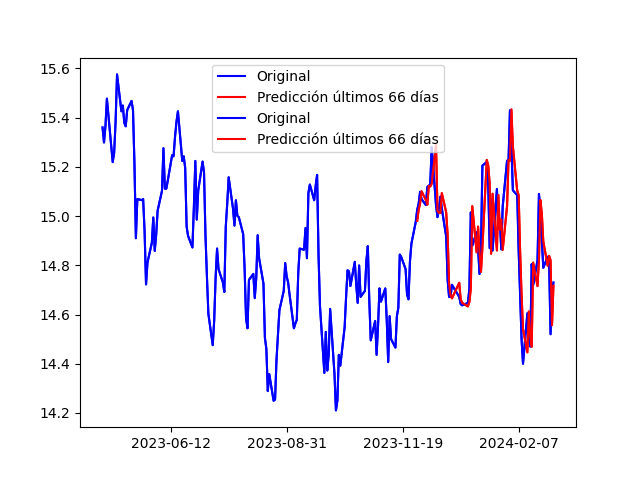
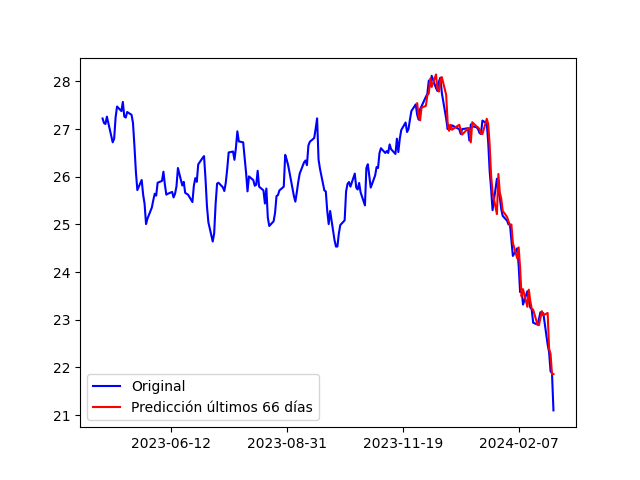
Pruebas forecast ARIMA automatizado

diff --git a/Analysis/templates/base.html b/Analysis/templates/base.html
@@ -61,10 +61,14 @@
                 {% else %}
                 <!-- Sólo lo muestro si el usuario está sin registrar -->
                 <li class="nav-item">
-                    <a class="nav-link" href="/login">Login</a>
+                    <a class="nav-link" href="/login">
+                        <img src="{% static 'icons/login.svg' %}" alt="ExperimentIcon" width="20" height="20"> Login 
+                    </a>
                 </li>
                 <li class="nav-item">
-                    <a class="nav-link" href="/signup">Registro</a>
+                    <a class="nav-link" href="/signup">
+                        <img src="{% static 'icons/signup.svg' %}" alt="ExperimentIcon" width="20" height="20"> Registro 
+                    </a>
                 </li>
                 {% endif %}
             </ul>
@@ -76,8 +80,8 @@
     <main>
         <br>
         <div style="text-align: center;">
-            <a href="/mapa/ibex35"><button class="btn" style="background-color: #212428; color: #FFFEFE; font-size: 16px; font-family: 'Arial', sans-serif; box-shadow: 0px 3px 5px rgba(0, 0, 0, 0.2); width: 120px;">IBEX35</button></a>
             <a href="/mapa/dj30"><button class="btn" style="background-color: #212428; color: #FFFEFE; font-size: 16px; font-family: 'Arial', sans-serif; box-shadow: 0px 3px 5px rgba(0, 0, 0, 0.2); width: 120px;">DJ30</button></a>
+            <a href="/mapa/ibex35"><button class="btn" style="background-color: #212428; color: #FFFEFE; font-size: 16px; font-family: 'Arial', sans-serif; box-shadow: 0px 3px 5px rgba(0, 0, 0, 0.2); width: 120px;">IBEX35</button></a>
             <a href="/mapa/ftse100"><button class="btn" style="background-color: #212428; color: #FFFEFE; font-size: 16px; font-family: 'Arial', sans-serif; box-shadow: 0px 3px 5px rgba(0, 0, 0, 0.2); width: 120px;">FTSE100</button></a>
             <a href="/mapa/dax40"><button class="btn" style="background-color: #212428; color: #FFFEFE; font-size: 16px; font-family: 'Arial', sans-serif; box-shadow: 0px 3px 5px rgba(0, 0, 0, 0.2); width: 120px;">DAX40</button></a>
             <!-- <a href="/mapa"><button>Mapa stocks</button></a> -->

diff --git a/Analysis/views.py b/Analysis/views.py
@@ -41,12 +41,9 @@ from News.views import _generar_figura
 from util.rss.RSS import rss_dj30, rss_ibex35, rss_ftse100, rss_dax40
 # Para obtener los tickers y los paths de las BDs
 from util.tickers.Tickers_BDs import tickers_adaptados_dj30, tickers_adaptados_ibex35, tickers_adaptados_ftse100, tickers_adaptados_dax40, tickers_adaptados_indices, bases_datos_disponibles, tickers_adaptados_disponibles, obtener_nombre_bd, tickers_disponibles
-from datetime import timedelta
 
-from sklearn.metrics import mean_squared_error
-from math import sqrt
-import matplotlib.pyplot as plt
-from statsmodels.tsa.arima.model import ARIMA
+from Analysis.lab import forecast_con_arima
+
 
 def signup(request):
     """Para registrar a un usuario.
@@ -863,147 +860,74 @@ def _calcular_media_sector(lista_dataframes):
     return dfs_merged
 
 
-def _pruebas_ARIMA_pronostico_estatico(ticker):
+# def _pruebas_ARIMA_pronostico_estatico(ticker):
 
-    bd = obtener_nombre_bd(ticker)
-    model = apps.get_model('Analysis', ticker)
-    # Último año aprox.
-    entrada = model.objects.using(bd).order_by('-date')[:220]
-    df = pd.DataFrame(list(entrada.values()))
+#     bd = obtener_nombre_bd(ticker)
+#     model = apps.get_model('Analysis', ticker)
+#     # Último año aprox.
+#     entrada = model.objects.using(bd).order_by('-date')[:220]
+#     df = pd.DataFrame(list(entrada.values()))
     
-    df.sort_values(by='date', ascending=True, inplace=True, ignore_index=True)
+#     df.sort_values(by='date', ascending=True, inplace=True, ignore_index=True)
 
-    datos = df['close']
-    fechas = df['date']
-    # Para trabajar con modelos de statsmodels hay que indicar una 
-    # frecuencia en índices temporales. Aquí no se puede usar porque
-    # las fechas de las cotizaciones no tienen una frecuencia diaria
-    # ya que hay festivos y/o fines de semana. Por tanto, el índice
-    # será un entero y se hacen luego las adaptaciones oportunas. 
-    # datos.set_index('date', inplace=True)
+#     datos = df['close']
+#     fechas = df['date']
+#     # Para trabajar con modelos de statsmodels hay que indicar una 
+#     # frecuencia en índices temporales. Aquí no se puede usar porque
+#     # las fechas de las cotizaciones no tienen una frecuencia diaria
+#     # ya que hay festivos y/o fines de semana. Por tanto, el índice
+#     # será un entero y se hacen luego las adaptaciones oportunas. 
+#     # datos.set_index('date', inplace=True)
 
-    tam_entrenamiento = int(len(datos) * 0.7)
-    datos_entrenamiento, datos_test = datos[:tam_entrenamiento], datos[tam_entrenamiento:]
+#     tam_entrenamiento = int(len(datos) * 0.7)
+#     datos_entrenamiento, datos_test = datos[:tam_entrenamiento], datos[tam_entrenamiento:]
 
-    # Fitting ARIMA model with order (p, d, q) = (1, 1, 1)
-    modelo = ARIMA(datos_entrenamiento, order=(5, 1, 1))
-    modelo_fit = modelo.fit()
+#     # Fitting ARIMA model with order (p, d, q) = (1, 1, 1)
+#     modelo = ARIMA(datos_entrenamiento, order=(5, 1, 1))
+#     modelo_fit = modelo.fit()
 
-    # Resumen del modelo ajustado:
-    # print(modelo_fit.summary())
+#     # Resumen del modelo ajustado:
+#     # print(modelo_fit.summary())
 
-    # Predict the next 3 values
-    forecast_steps = 5
-    prediccion = modelo_fit.forecast(steps=forecast_steps)
+#     # Predict the next 3 values
+#     forecast_steps = 5
+#     prediccion = modelo_fit.forecast(steps=forecast_steps)
 
-    datos.index = fechas
-    prediccion.index = fechas[tam_entrenamiento:(tam_entrenamiento+forecast_steps)]
+#     datos.index = fechas
+#     prediccion.index = fechas[tam_entrenamiento:(tam_entrenamiento+forecast_steps)]
 
-    # Print or visualize the predicted values
-    print("Predicted Values:", prediccion)
+#     # Print or visualize the predicted values
+#     print("Predicted Values:", prediccion)
 
-    # Visualize original data and predicted values
-    plt.plot(datos.index, datos, label='Original Data')
-    plt.plot(prediccion.index, prediccion, label='Predictions', color='red')
+#     # Visualize original data and predicted values
+#     plt.plot(datos.index, datos, label='Original Data')
+#     plt.plot(prediccion.index, prediccion, label='Predictions', color='red')
         
-    plt.gca().xaxis.set_major_locator(plt.MaxNLocator(5))  # Adjust the maximum number of ticks displayed
+#     plt.gca().xaxis.set_major_locator(plt.MaxNLocator(5))  # Adjust the maximum number of ticks displayed
 
-    plt.legend()
-    plt.savefig('prediccion.png', format="PNG")
+#     plt.legend()
+#     plt.savefig('prediccion.png', format="PNG")
     
-    """
-    residuals = pd.DataFrame(modelo_fit.resid)
-    residuals.plot()
-    plt.savefig('linea_residuos.png', format="PNG")
-    # density plot of residuals
-    residuals.plot(kind='kde')
-    plt.savefig('densidad_residuos.png', format="PNG")
-    # summary stats of residuals
-    print(residuals.describe())
-    """
+#     """
+#     residuals = pd.DataFrame(modelo_fit.resid)
+#     residuals.plot()
+#     plt.savefig('linea_residuos.png', format="PNG")
+#     # density plot of residuals
+#     residuals.plot(kind='kde')
+#     plt.savefig('densidad_residuos.png', format="PNG")
+#     # summary stats of residuals
+#     print(residuals.describe())
+#     """
 
-    return
+#     return
 
 
 def _pruebas_ARIMA_pronostico_movil(ticker):
 
-    bd = obtener_nombre_bd(ticker)
-    modelo = apps.get_model('Analysis', ticker)
-    # Último año aprox.
-    entrada = modelo.objects.using(bd).order_by('-date')[:220]
-    df = pd.DataFrame(list(entrada.values()))
-    
-    df.sort_values(by='date', ascending=True, inplace=True, ignore_index=True)
+    # Por defecto order=None, i.e., se calcula el 'order' (p,d,q)
+    # automáticamente con auto_arima
+    # forecast_con_arima(ticker, order=None)
 
-    datos = df['close']
-    fechas = df['date']
-
-    tam_entrenamiento = int(len(datos) * 0.7)
-    datos_entrenamiento, datos_test = datos[:tam_entrenamiento], datos[tam_entrenamiento:]
-
-    print(datos_test)
-
-    history = [x for x in datos_entrenamiento]
-    predictions = list()
-    prediccion = 0
-    # walk-forward validation
-    for t in range(len(datos_test)):
-        modelo = ARIMA(history, order=(1, 1, 1))
-        modelo_fit = modelo.fit()
-        output = modelo_fit.forecast()
-        yhat = output[0]
-        predictions.append(yhat)
-        obs = datos_test.iloc[t]
-        history.append(obs)
-        # print(f'predicted={yhat}, expected={obs}')
-    
-    prediccion = modelo_fit.forecast(steps=1)
-    
-    # evaluate forecasts
-    rmse = sqrt(mean_squared_error(datos_test, predictions))
-    print('Test RMSE: %.3f' % rmse)
-    # plot forecasts against actual outcomes
-
-    # datos_test.index = fechas[tam_entrenamiento:]
-    datos.index = fechas
-    predictions = pd.DataFrame(predictions)
-    predictions.index = fechas[tam_entrenamiento:]
-
-    # plt.plot(datos_test.index, datos_test, color='blue', label='Original')
-    plt.plot(datos.index, datos, color='blue', label='Original')
-    plt.plot(predictions.index, predictions, color='red', label=f'Predicción últimos {len(datos_test)} días')
-    plt.gca().xaxis.set_major_locator(plt.MaxNLocator(5))
-    plt.legend()
-    plt.savefig('pruebas.png', format='PNG')
-
-    print("Predicciones: ", prediccion)
-
-    """
-    # Fitting ARIMA model with order (p, d, q) = (1, 1, 1)
-    modelo = ARIMA(datos_entrenamiento, order=(5, 1, 1))
-    modelo_fit = modelo.fit()
-
-    # Resumen del modelo ajustado:
-    # print(modelo_fit.summary())
-
-    # Predict the next 3 values
-    forecast_steps = 5
-    prediccion = modelo_fit.forecast(steps=forecast_steps)
-
-    datos.index = fechas
-    prediccion.index = fechas[tam_entrenamiento:(tam_entrenamiento+forecast_steps)]
-
-    # Print or visualize the predicted values
-    print("Predicted Values:", prediccion)
-
-    # Visualize original data and predicted values
-    plt.plot(datos.index, datos, label='Original Data')
-    plt.plot(prediccion.index, prediccion, label='Predictions', color='red')
-        
-    plt.gca().xaxis.set_major_locator(plt.MaxNLocator(5))  # Adjust the maximum number of ticks displayed
-
-    plt.legend()
-    plt.savefig('prediccion.png', format="PNG")
-    """
+    forecast_con_arima(ticker, order=(0.5,1,1))
 
     return

diff --git a/Analysis/lab.py b/Analysis/lab.py
@@ -1,0 +1,115 @@
+from sklearn.metrics import mean_squared_error
+from math import sqrt
+import matplotlib.pyplot as plt
+from statsmodels.tsa.arima.model import ARIMA
+import pandas as pd
+from django.apps import apps
+from pmdarima.arima import auto_arima
+from util.tickers.Tickers_BDs import obtener_nombre_bd
+
+
+def forecast_con_arima(ticker, order=None):
+    """
+    """
+    bd = obtener_nombre_bd(ticker)
+    modelo = apps.get_model('Analysis', ticker)
+    # Último año aprox.
+    entrada = modelo.objects.using(bd).order_by('-date')[:220]
+    df = pd.DataFrame(list(entrada.values()))
+    
+    df.sort_values(by='date', ascending=True, inplace=True, ignore_index=True)
+
+    # Guardo las fechas para usarlas como índices
+    datos = df['close']
+    fechas = df['date']
+
+    # Split 70/30
+    tam_entrenamiento = int(len(datos) * 0.7)
+    datos_entrenamiento, datos_test = datos[:tam_entrenamiento], datos[tam_entrenamiento:]
+
+    # Separo en history porque lo voy actualizando para los 
+    # subsecuentes análisis
+    history = [x for x in datos_entrenamiento]
+    predictions = list()
+    prediccion = 0
+
+    # Calcular 'order' de forma automática con auto_arima. En otro 
+    # caso, 'order' será lo que hay indicado el usuario. Se calcula
+    # el mejor modelo con auto_arima
+    if order==None:
+        model = auto_arima(datos, seasonal=False)
+        order = model.order
+        # print(model.summary())
+        # print("\nParámetros:", model.order, "\n")
+    else:
+        # Comprobación de que los datos introducidos por 
+        # el usuario son válidos
+        for _ in order:
+            if type(_) != int:
+                print("ERROR")
+
+    # Validación 'walk-forward'
+    for t in range(len(datos_test)):
+        modelo = ARIMA(history, order=order)
+        modelo_fit = modelo.fit()
+        # Por defecto, el forecast es de un step, podría omitirlo
+        output = modelo_fit.forecast(steps=1)
+        yhat = output[0]
+        predictions.append(yhat)
+        obs = datos_test.iloc[t]
+        history.append(obs)
+        # print(f'predicted={yhat}, expected={obs}')
+    
+    # Hago una predicción adicional para el próximo día
+    prediccion = modelo_fit.forecast(steps=1)
+    
+    # Evaluar con RMSE cómo ha sido el forecast
+    print(modelo_fit.summary())
+    rmse = sqrt(mean_squared_error(datos_test, predictions))
+    print('Test RMSE: %.3f' % rmse)
+    print("Predicciones: ", prediccion)
+    
+    # datos_test.index = fechas[tam_entrenamiento:]
+    datos.index = fechas
+    predictions = pd.DataFrame(predictions)
+    predictions.index = fechas[tam_entrenamiento:]
+
+    # plt.plot(datos_test.index, datos_test, color='blue', label='Original')
+    plt.plot(datos.index, datos, color='blue', label='Original')
+    plt.plot(predictions.index, predictions, color='red', label=f'Predicción últimos {len(datos_test)} días')
+    plt.gca().xaxis.set_major_locator(plt.MaxNLocator(5))
+    plt.legend()
+    plt.savefig('pruebas.png', format='PNG')
+
+    return
+
+
+
+
+"""
+    # Fitting ARIMA model with order (p, d, q) = (1, 1, 1)
+    modelo = ARIMA(datos_entrenamiento, order=(5, 1, 1))
+    modelo_fit = modelo.fit()
+
+    # Resumen del modelo ajustado:
+    # print(modelo_fit.summary())
+
+    # Predict the next 3 values
+    forecast_steps = 5
+    prediccion = modelo_fit.forecast(steps=forecast_steps)
+
+    datos.index = fechas
+    prediccion.index = fechas[tam_entrenamiento:(tam_entrenamiento+forecast_steps)]
+
+    # Print or visualize the predicted values
+    print("Predicted Values:", prediccion)
+
+    # Visualize original data and predicted values
+    plt.plot(datos.index, datos, label='Original Data')
+    plt.plot(prediccion.index, prediccion, label='Predictions', color='red')
+        
+    plt.gca().xaxis.set_major_locator(plt.MaxNLocator(5))  # Adjust the maximum number of ticks displayed
+
+    plt.legend()
+    plt.savefig('prediccion.png', format="PNG")
+    """
